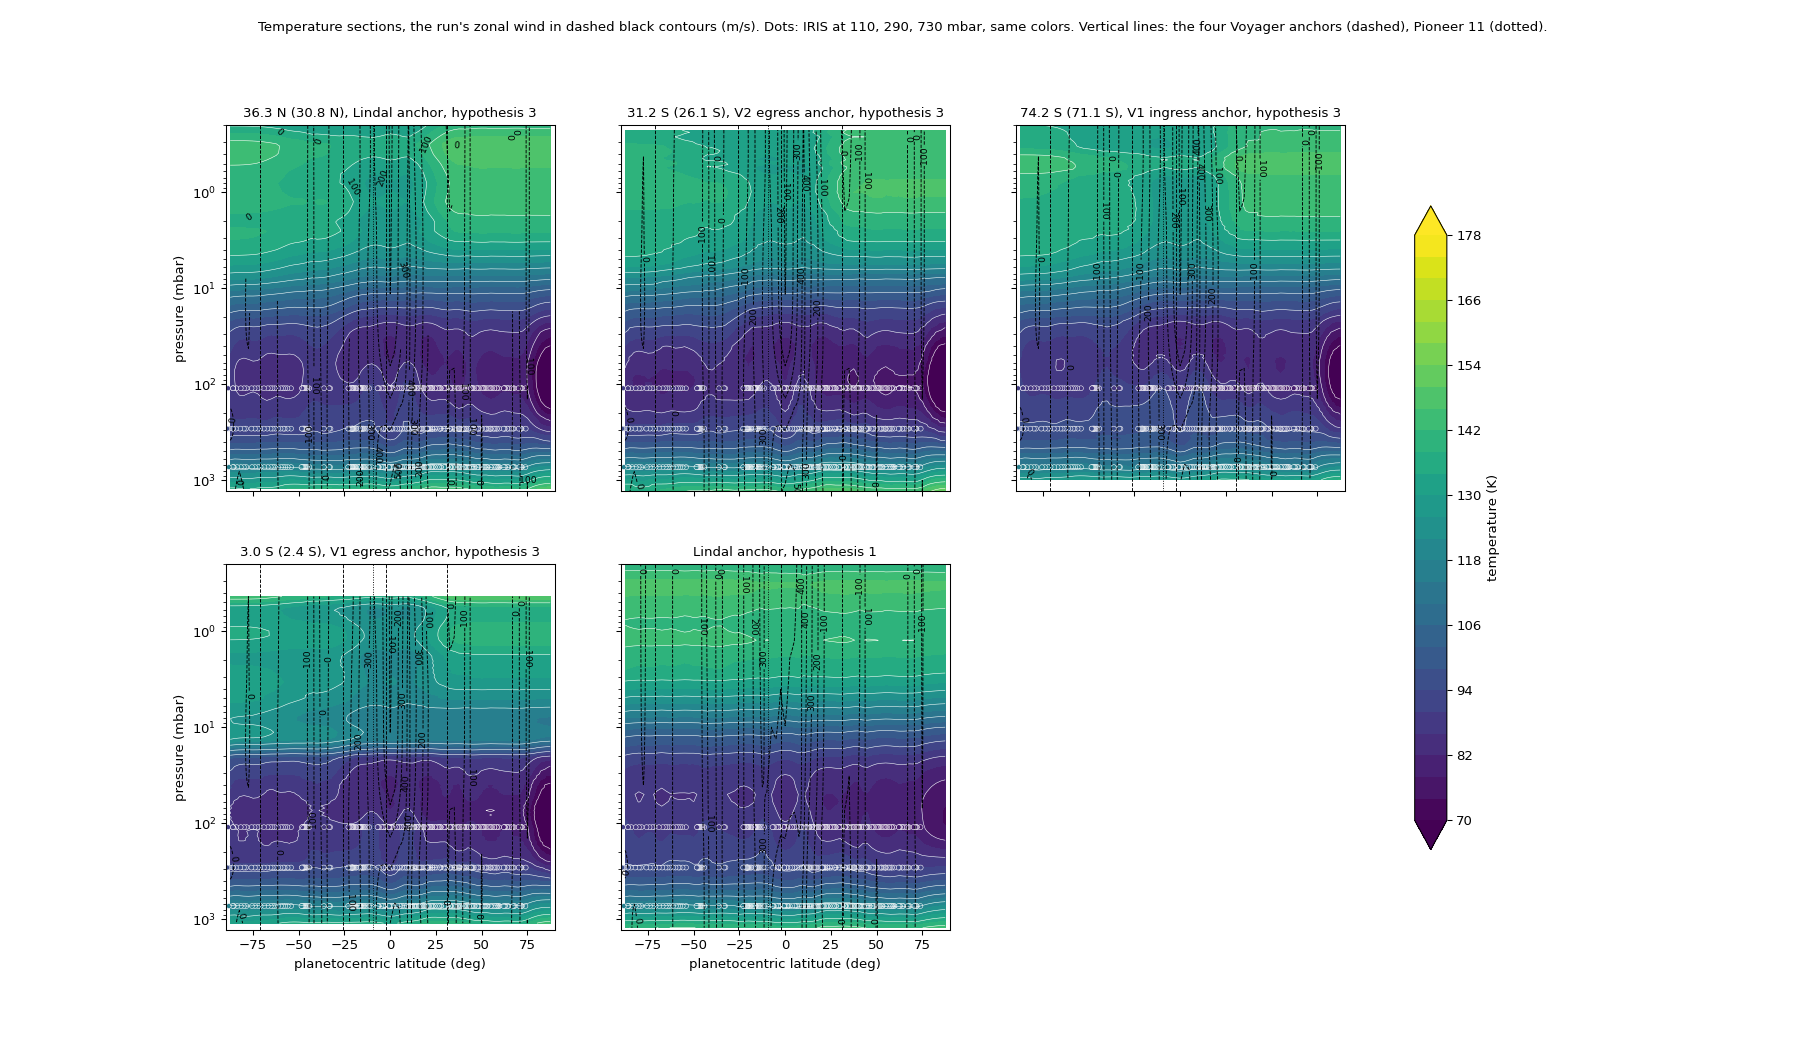
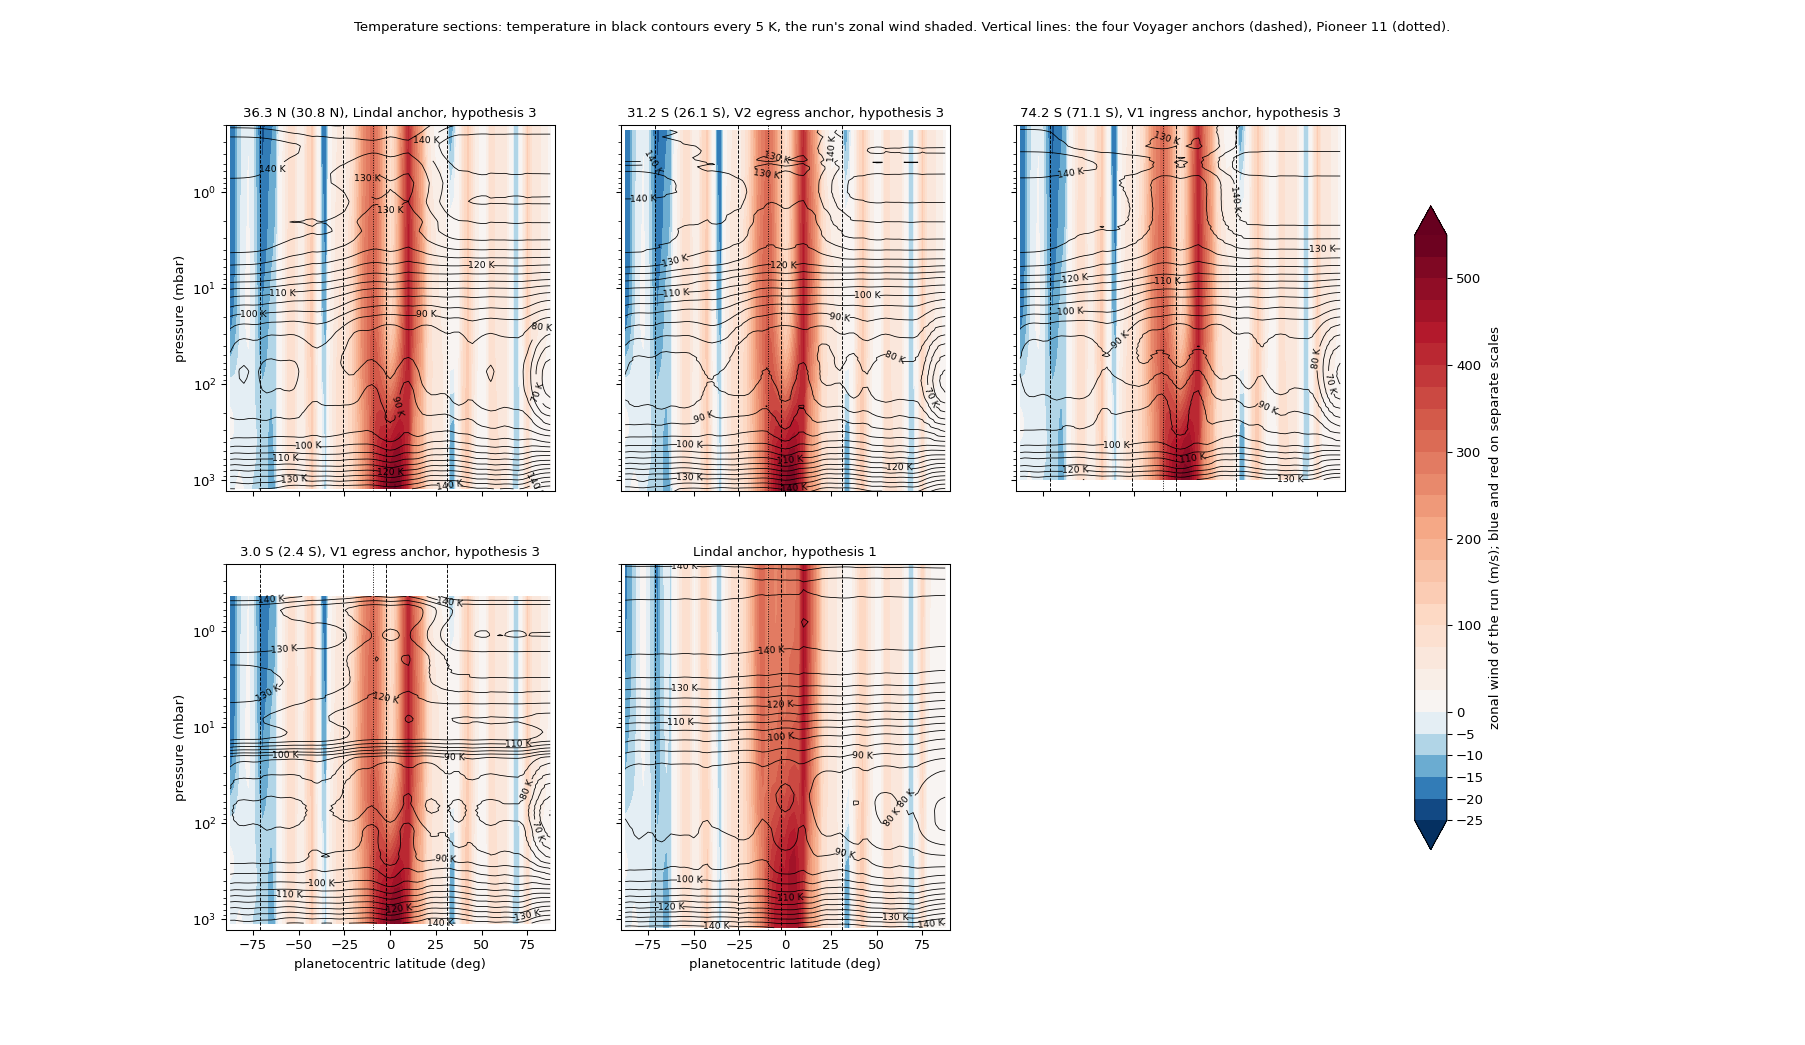
SPEC_20: temperature sections redrawn, wind shaded on two scales under temperature contours, IRIS points removed; REPORT_20_step1's closure and matrix tables take the post-fix values

diff --git a/tests/step20_1/accept_step20_1.py b/tests/step20_1/accept_step20_1.py
@@ -224,11 +224,13 @@ def main():
     u_grid = {k: on_grid(v, "u_ms") for k, v in sections.items()}
     levels_u = [-50, 0, 100, 200, 300, 400, 500]
 
-    iris = np.genfromtxt(LINDAL / "iris_temperatures.csv", delimiter=",", names=True)
     lat_c = np.asarray(wind["latitude_planetocentric_deg"].values)
-    lat_g = np.asarray(wind["latitude_planetographic_deg"].values)
-    iris_c = np.interp(iris["latitude_planetographic_deg"], lat_g, lat_c)
-    levels_T = np.arange(70, 182, 4)
+    # Temperature as labeled contours over the zonal wind shaded (author, 10 November).
+    levels_T = np.arange(60, 181, 5)
+    # The westward winds reach only about -21 m/s and the jet about 530, so each side gets its own scale: blue
+    # in 5 m/s steps to -25, red in 25 m/s steps to 550, both from zero (author, 10 November).
+    levels_wind = np.concatenate([np.arange(-25, 0, 5), np.arange(0, 551, 25)])
+    norm_wind = matplotlib.colors.TwoSlopeNorm(vmin=-25, vcenter=0, vmax=550)
 
     def decorate(ax):
         for slug in ANCHORS:
@@ -241,23 +243,21 @@ def main():
     names = ["lindal", "voyager2_egress", "voyager1_ingress", "voyager1_egress", "hypothesis 1"]
     fig, axes = plt.subplots(2, 3, figsize=(19, 11), sharex=True, sharey=True)
     for ax, key in zip(axes.ravel(), names):
-        cs = ax.contourf(lat_s, GRID_PA / 100, T_grid[key].T, levels=levels_T, cmap="viridis", extend="both")
-        ax.contour(lat_s, GRID_PA / 100, T_grid[key].T, levels=levels_T[::2], colors="w", linewidths=0.4)
-        ax.scatter(iris_c, iris["pressure_mbar"], c=iris["temperature_K"], cmap="viridis", vmin=levels_T[0], vmax=levels_T[-1],
-                   s=14, edgecolors="w", linewidths=0.4)
-        cu = ax.contour(lat_s, GRID_PA / 100, u_grid[key].T, levels=levels_u, colors="k", linestyles="--", linewidths=0.7)
-        ax.clabel(cu, fmt="%d", fontsize=7, inline_spacing=2)
+        cs = ax.contourf(lat_s, GRID_PA / 100, u_grid[key].T, levels=levels_wind, cmap="RdBu_r", norm=norm_wind, extend="both")
+        ct = ax.contour(lat_s, GRID_PA / 100, T_grid[key].T, levels=levels_T, colors="k", linewidths=0.6)
+        ax.clabel(ct, levels=levels_T[::2], fmt="%d K", fontsize=7, inline_spacing=2)
         decorate(ax)
         title = f"{LABEL[key]} anchor, hypothesis 3" if key in LABEL else "Lindal anchor, hypothesis 1"
         ax.set_title(title, fontsize=10)
     axes[1, 2].axis("off")
-    fig.colorbar(cs, ax=axes, label="temperature (K)", shrink=0.8)
+    fig.colorbar(cs, ax=axes, label="zonal wind of the run (m/s); blue and red on separate scales", shrink=0.8,
+                 ticks=[-25, -20, -15, -10, -5, 0, 100, 200, 300, 400, 500])
     for ax in axes[1]:
         ax.set_xlabel("planetocentric latitude (deg)")
     for ax in axes[:, 0]:
         ax.set_ylabel("pressure (mbar)")
-    fig.suptitle("Temperature sections, the run's zonal wind in dashed black contours (m/s). Dots: IRIS at 110, 290, "
-                 "730 mbar, same colors. Vertical lines: the four Voyager anchors (dashed), Pioneer 11 (dotted).", fontsize=10)
+    fig.suptitle("Temperature sections: temperature in black contours every 5 K, the run's zonal wind shaded. "
+                 "Vertical lines: the four Voyager anchors (dashed), Pioneer 11 (dotted).", fontsize=10)
     fig.savefig(FIG / "step20_1_sections_temperature.png", dpi=95)
     plt.close(fig)
 

diff --git a/reports/REPORT_20_step1.md b/reports/REPORT_20_step1.md
@@ -68,9 +68,11 @@ and checked them after: identical.
 | Anchor | Levels | Largest dT (K) | RMS dT (K) | Largest dp/p |
 |---|---|---|---|---|
 | Lindal, for scale | 66 | 0.48 | 0.13 | 3.3e-3 |
-| Voyager 2 egress | 392 | 0.60 | 0.42 | 4.1e-3 |
+| Voyager 2 egress | 392 | 0.012 | 0.007 | 8.6e-5 |
 | Voyager 1 ingress | 385 | 0.0036 | 0.0017 | 2.5e-5 |
 | Voyager 1 egress | 345 | 0.0035 | 0.0018 | 2.9e-5 |
+
+*Post-fix values from `reports/step20_1/summary.json` at `b7b09e9`; they replace the pre-fix Voyager 2 egress row (0.60, 0.42, 4.1e-3), whose cause §3.2 records.*
 
 The Voyager 1 closures are near exact because their heights are hydrostatic in the model's own terms (ruling 1),
 so they test the chain, not the data. **The Voyager 2 egress's 0.6 K has a cause** (§3.2).
@@ -109,19 +111,21 @@ Delivered minus observed (K); the band is Lindal's Fig. 4 sigma_T:
 
 | At | From | 730 | 290 | 110 | 30 | 10 | 1 mbar |
 |---|---|---|---|---|---|---|---|
-| 36.3 N | V2 egress | +1.53 | -0.20 | -3.11 | +0.53 | +0.60 | +2.30 |
-| | V1 ingress | -1.14 | +2.77 | +3.38 | -0.06 | +0.34 | -0.93 |
-| | V1 egress | +1.38 | +0.59 | -0.14 | +0.15 | **+11.63** | -4.65 |
-| 31.2 S | Lindal | -1.41 | +0.75 | +3.33 | -0.27 | +0.23 | -1.47 |
-| | V1 ingress | -2.29 | +3.31 | **+6.80** | -0.14 | +0.47 | -2.48 |
-| | V1 egress | +0.20 | +1.11 | +3.30 | +0.08 | **+11.72** | -6.28 |
+| 36.3 N | V2 egress | +1.25 | -0.43 | -3.37 | -0.06 | -0.40 | +1.92 |
+|  | V1 ingress | -1.14 | +2.77 | +3.38 | -0.06 | +0.34 | -0.93 |
+|  | V1 egress | +1.38 | +0.59 | -0.14 | +0.15 | **+11.63** | -4.65 |
+| 31.2 S | Lindal | -1.46 | +0.67 | +3.27 | -0.09 | +0.67 | -1.45 |
+|  | V1 ingress | -2.34 | +3.22 | **+6.74** | +0.04 | +0.91 | -2.46 |
+|  | V1 egress | +0.15 | +1.03 | +3.24 | +0.25 | **+12.15** | -6.26 |
 | 74.2 S | Lindal | +0.92 | -2.71 | -3.58 | -0.17 | -0.23 | +0.94 |
-| | V2 egress | +2.64 | -3.00 | **-6.45** | +0.60 | +0.46 | +3.40 |
-| | V1 egress | +2.51 | -2.21 | -3.47 | +0.23 | **+11.45** | -3.64 |
+|  | V2 egress | +2.37 | -3.23 | **-6.71** | +0.00 | -0.53 | +3.05 |
+|  | V1 egress | +2.51 | -2.21 | -3.47 | +0.23 | **+11.45** | -3.64 |
 | 3.0 S | Lindal | -1.44 | +0.03 | +0.61 | +0.66 | -10.46 | +5.51 |
-| | V2 egress | +0.26 | -0.42 | -2.34 | +1.26 | -9.82 | +7.67 |
-| | V1 ingress | -2.33 | +2.55 | +4.05 | +0.69 | -10.24 | +4.50 |
+|  | V2 egress | -0.01 | -0.64 | -2.60 | +0.67 | -10.81 | +7.28 |
+|  | V1 ingress | -2.33 | +2.55 | +4.05 | +0.69 | -10.24 | +4.50 |
 | sigma_T | | 2.73 | 2.29 | 2.27 | 2.47 | 2.88 | 5.42 |
+
+*Post-fix values from `reports/step20_1/summary.json` at `b7b09e9`; they replace the pre-fix matrix, which changes only in the six rows to and from the Voyager 2 egress, by up to 1.0 K (10 mbar).*
 
 - **110 mbar is where the anchors disagree,** as in SPEC_19. The two southern profiles miss each other by 6.5 to
   6.8 K, about 3 sigma_T. Lindal's anchor misses each by about half that, so hypothesis 3, fitted to Lindal's
